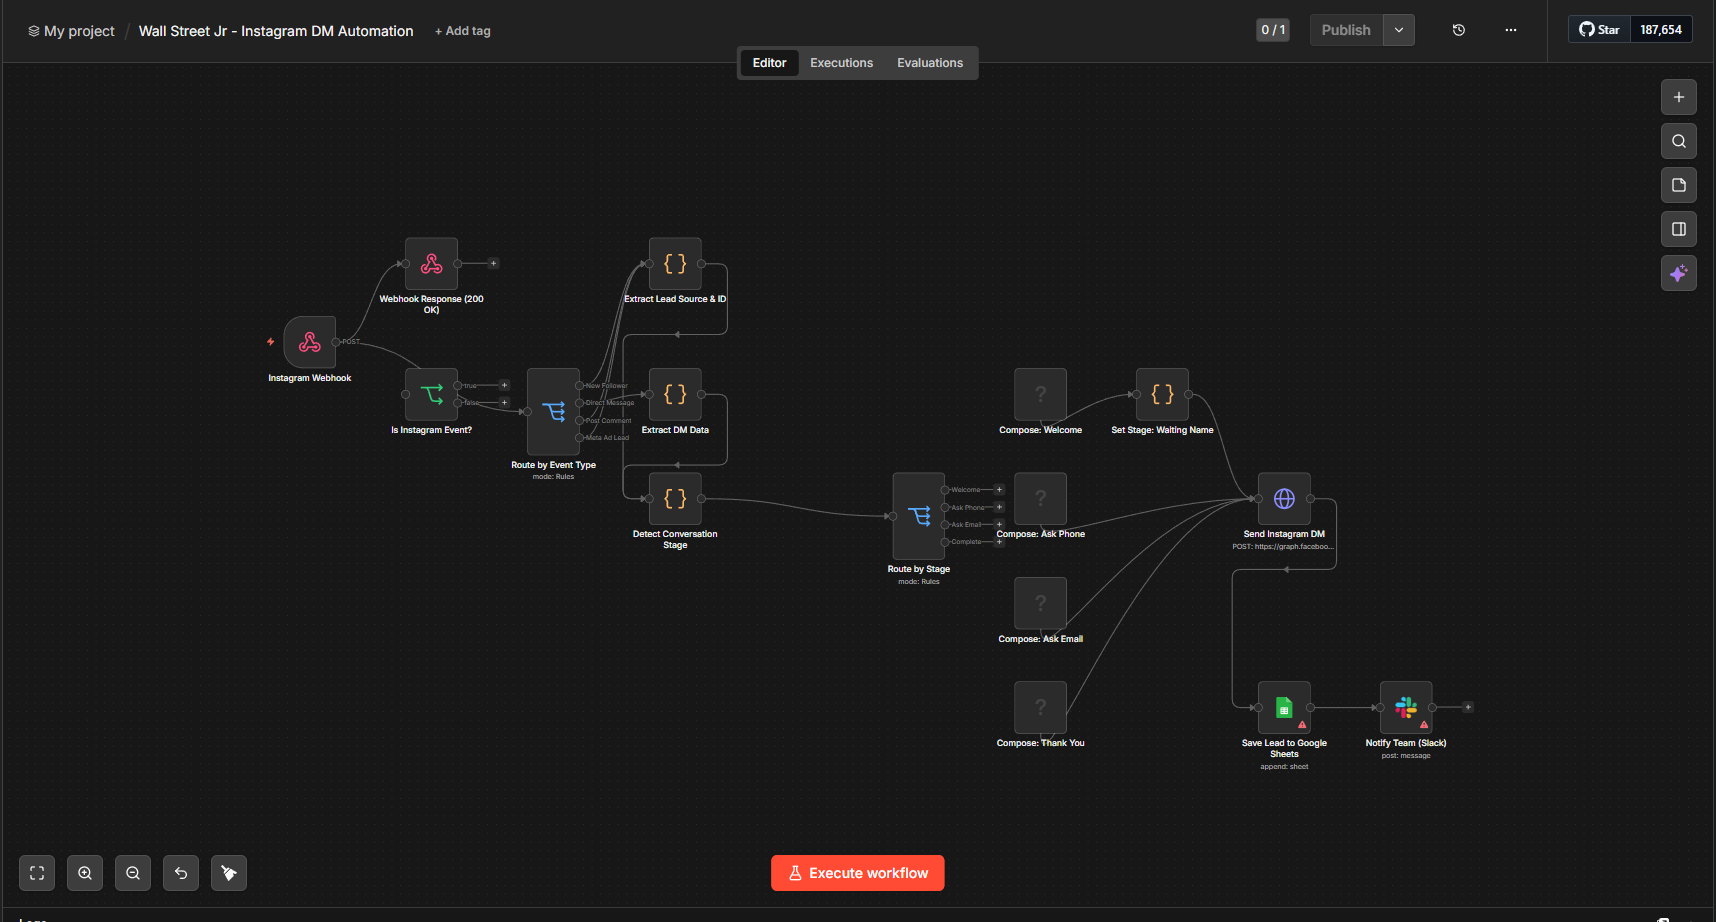
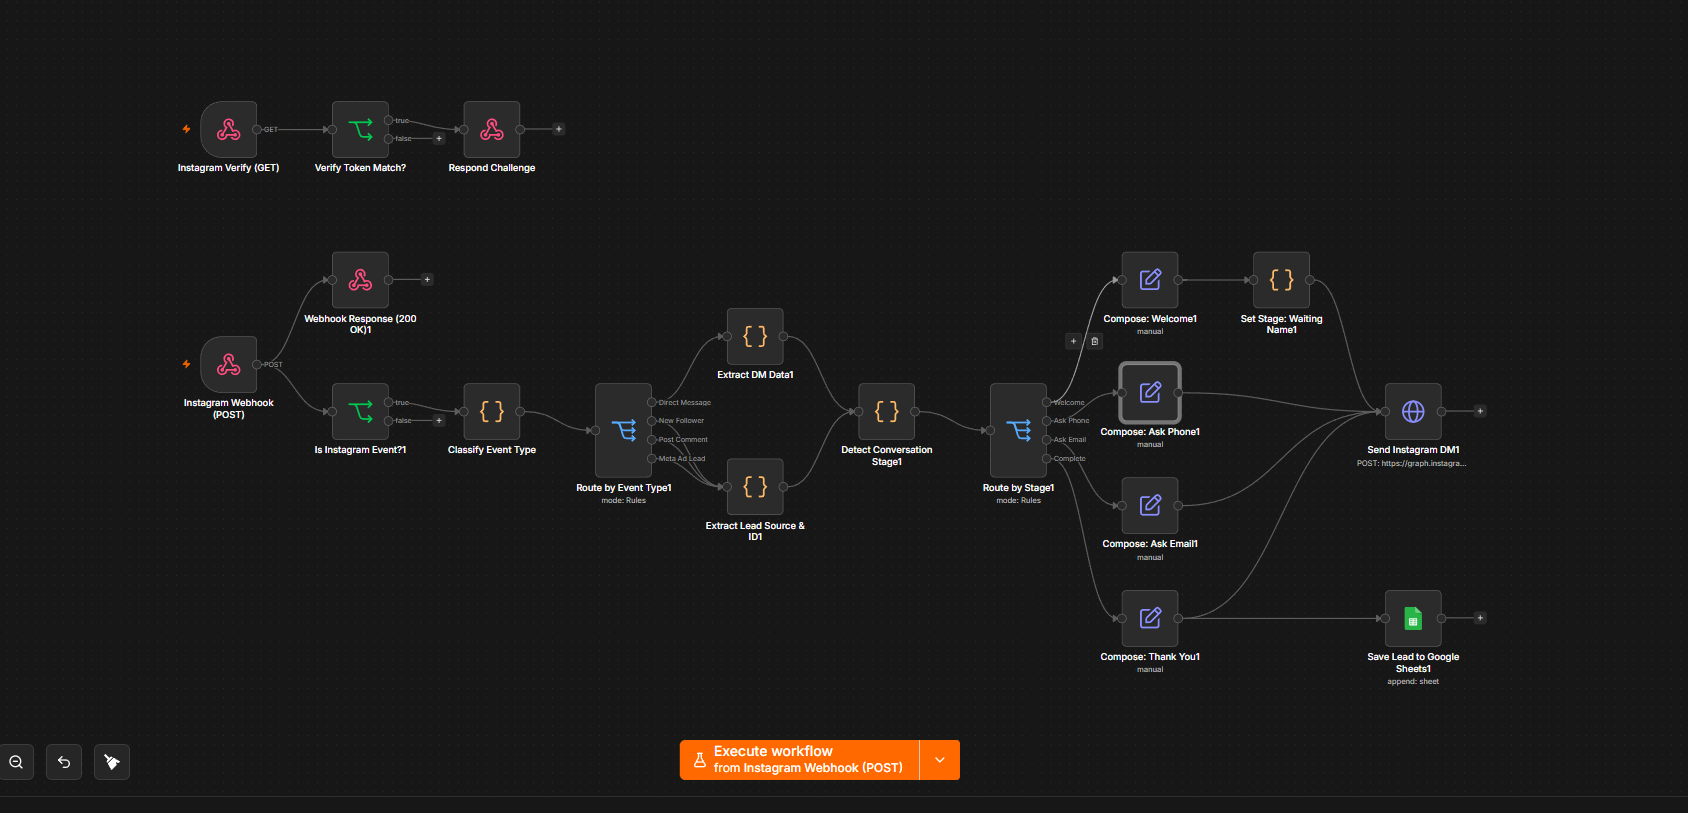
Update Instagram DM Automation case study with shipped workflow
- Replace screenshot with the live, published n8n workflow
- Correct stack (Sheets only — no Slack node in shipped version)
- Add GET webhook challenge verification to the solution narrative
- New decision card explaining the two-webhook-paths-in-one-workflow pattern

diff --git a/data/projects.ts b/data/projects.ts
@@ -181,8 +181,8 @@ export const projects: Project[] = [
     title: "Instagram DM Automation",
     subtitle: "Stateful conversational lead capture",
     description:
-      "n8n workflow that turns an Instagram account into an always-on lead funnel. Meta Graph API webhook ingests four event types into a multi-turn DM conversation (name → phone → email → thank you), then ships qualified leads to Sheets + Slack.",
-    stack: ["n8n", "Meta Graph API", "Google Sheets", "Slack", "JavaScript"],
+      "n8n workflow that turns an Instagram account into an always-on lead funnel. Meta Graph API webhook (with GET-challenge verification) ingests four event types into a multi-turn DM conversation — name → phone → email → thank-you — then writes the qualified lead straight into Google Sheets.",
+    stack: ["n8n", "Meta Graph API", "Instagram Messaging", "Google Sheets", "JavaScript"],
     year: "2026",
     era: "current",
     status: "Live",
@@ -196,7 +196,7 @@ export const projects: Project[] = [
       problem:
         "The CEO's personal-brand Instagram was generating qualified inbound — DMs, ad-form leads, comment intent — but the team was missing replies for hours during the day and entirely overnight. By the time someone got to a hot lead, the visitor had already moved on. Conversion was leaking.",
       solution:
-        "Built an n8n workflow on a Meta Graph API webhook that ingests four event types (new follower, DM, post comment, Meta Ad lead) and routes each into a stateful multi-turn conversation. Per-user state (waiting_name → waiting_phone → waiting_email → complete) lives in n8n's static data, keyed by Instagram sender ID. Each stage validates input (phone regex, email regex) before advancing. On complete, the qualified lead lands in Google Sheets and Slack pings the sales team.",
+        "Built an n8n workflow on a Meta Graph API webhook with two paths: a GET handler that returns Meta's challenge token to complete subscription verification, and a POST handler that ingests four event types (DM, new follower, post comment, Meta Ad lead) and routes each into a stateful multi-turn conversation. Per-user state (waiting_name → waiting_phone → waiting_email → complete) lives in n8n's static data, keyed by Instagram sender ID. Each stage validates input (phone regex, email regex) before advancing. On `complete`, the qualified lead is appended to Google Sheets with name, phone, email, IG ID, source, and timestamp — ready for the sales team to action.",
       decisions: [
         {
           label: "Stateful per-user conversation, not one-shot",
@@ -207,6 +207,11 @@ export const projects: Project[] = [
           label: "n8n static data over external DB for state",
           detail:
             "For medium volume, `$getWorkflowStaticData('global')` is dramatically simpler than wiring Supabase or Redis. Trade-off documented in the README: doesn't survive workflow restructure, so production at scale would externalise to Postgres. Right call for v1.",
+        },
+        {
+          label: "Two webhook paths in one workflow",
+          detail:
+            "Meta's webhook subscription requires a GET endpoint that returns `hub.challenge` before any events are sent. Most tutorials wire that into a separate workflow; I kept verification + event handling in the same n8n flow with two webhook nodes on the same path. Means one URL to register, one place to debug.",
         },
         {
           label: "Same pattern reused inside WSJR Academy's ATLAS",
